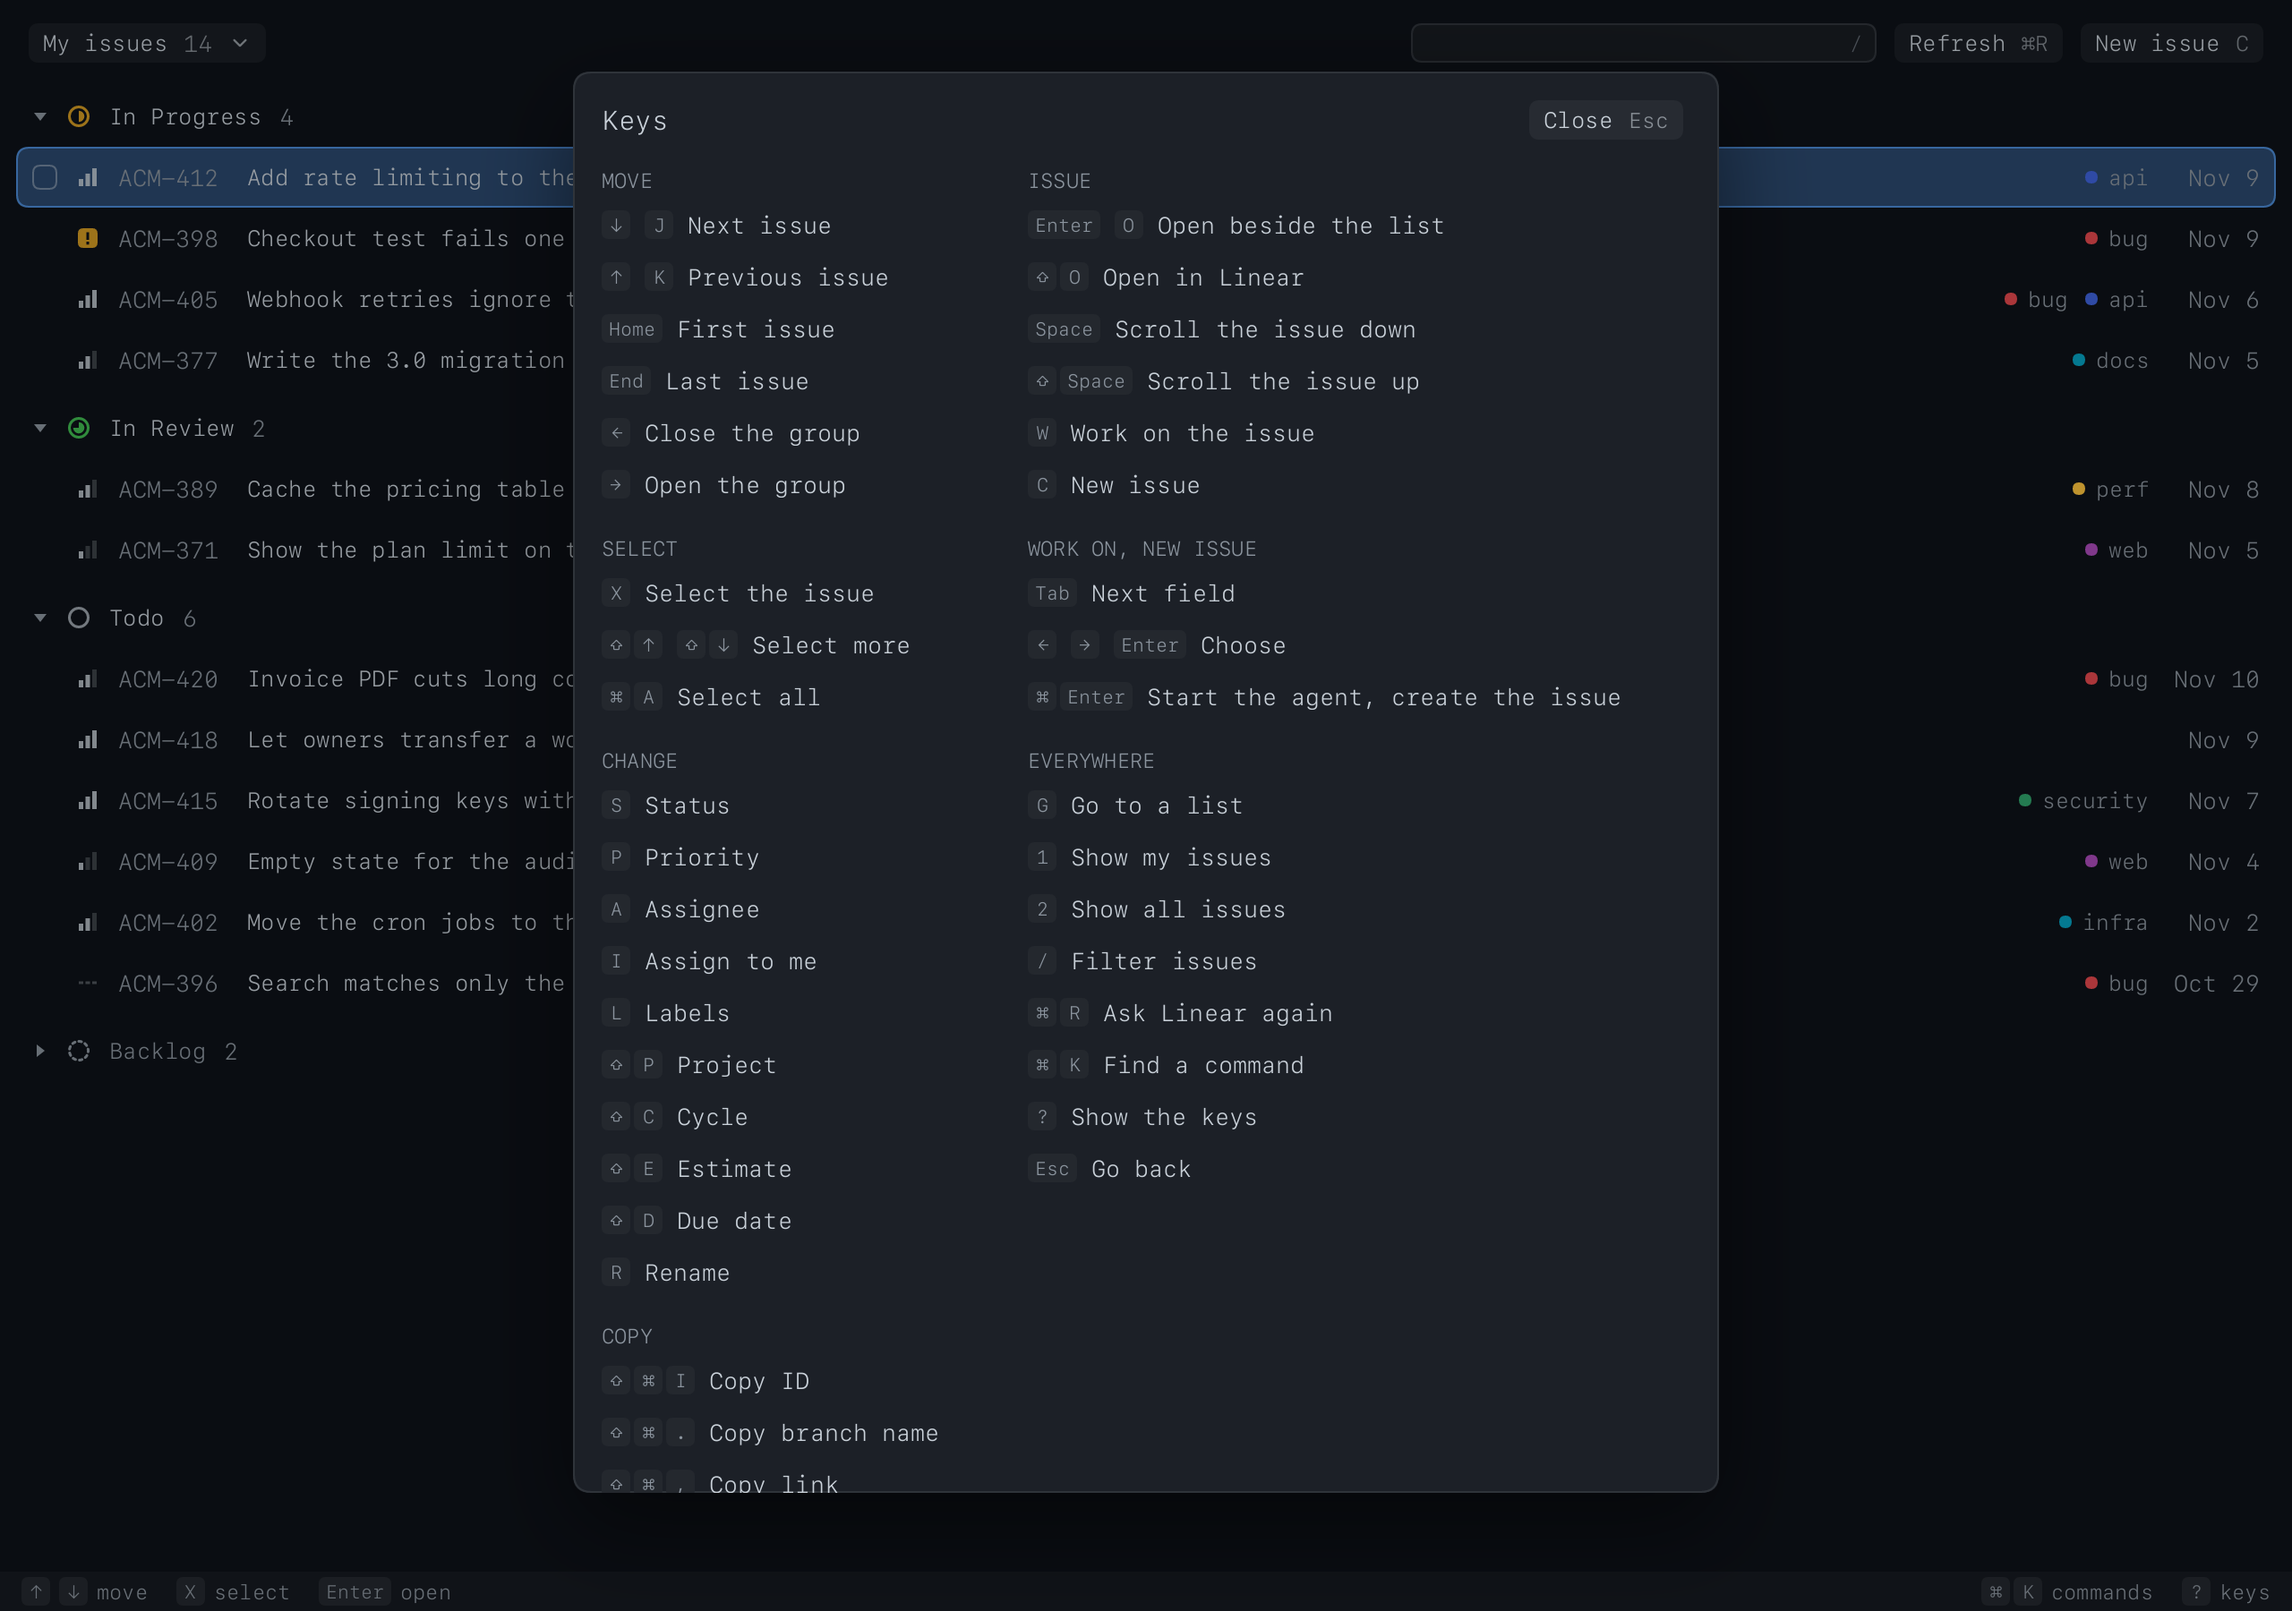
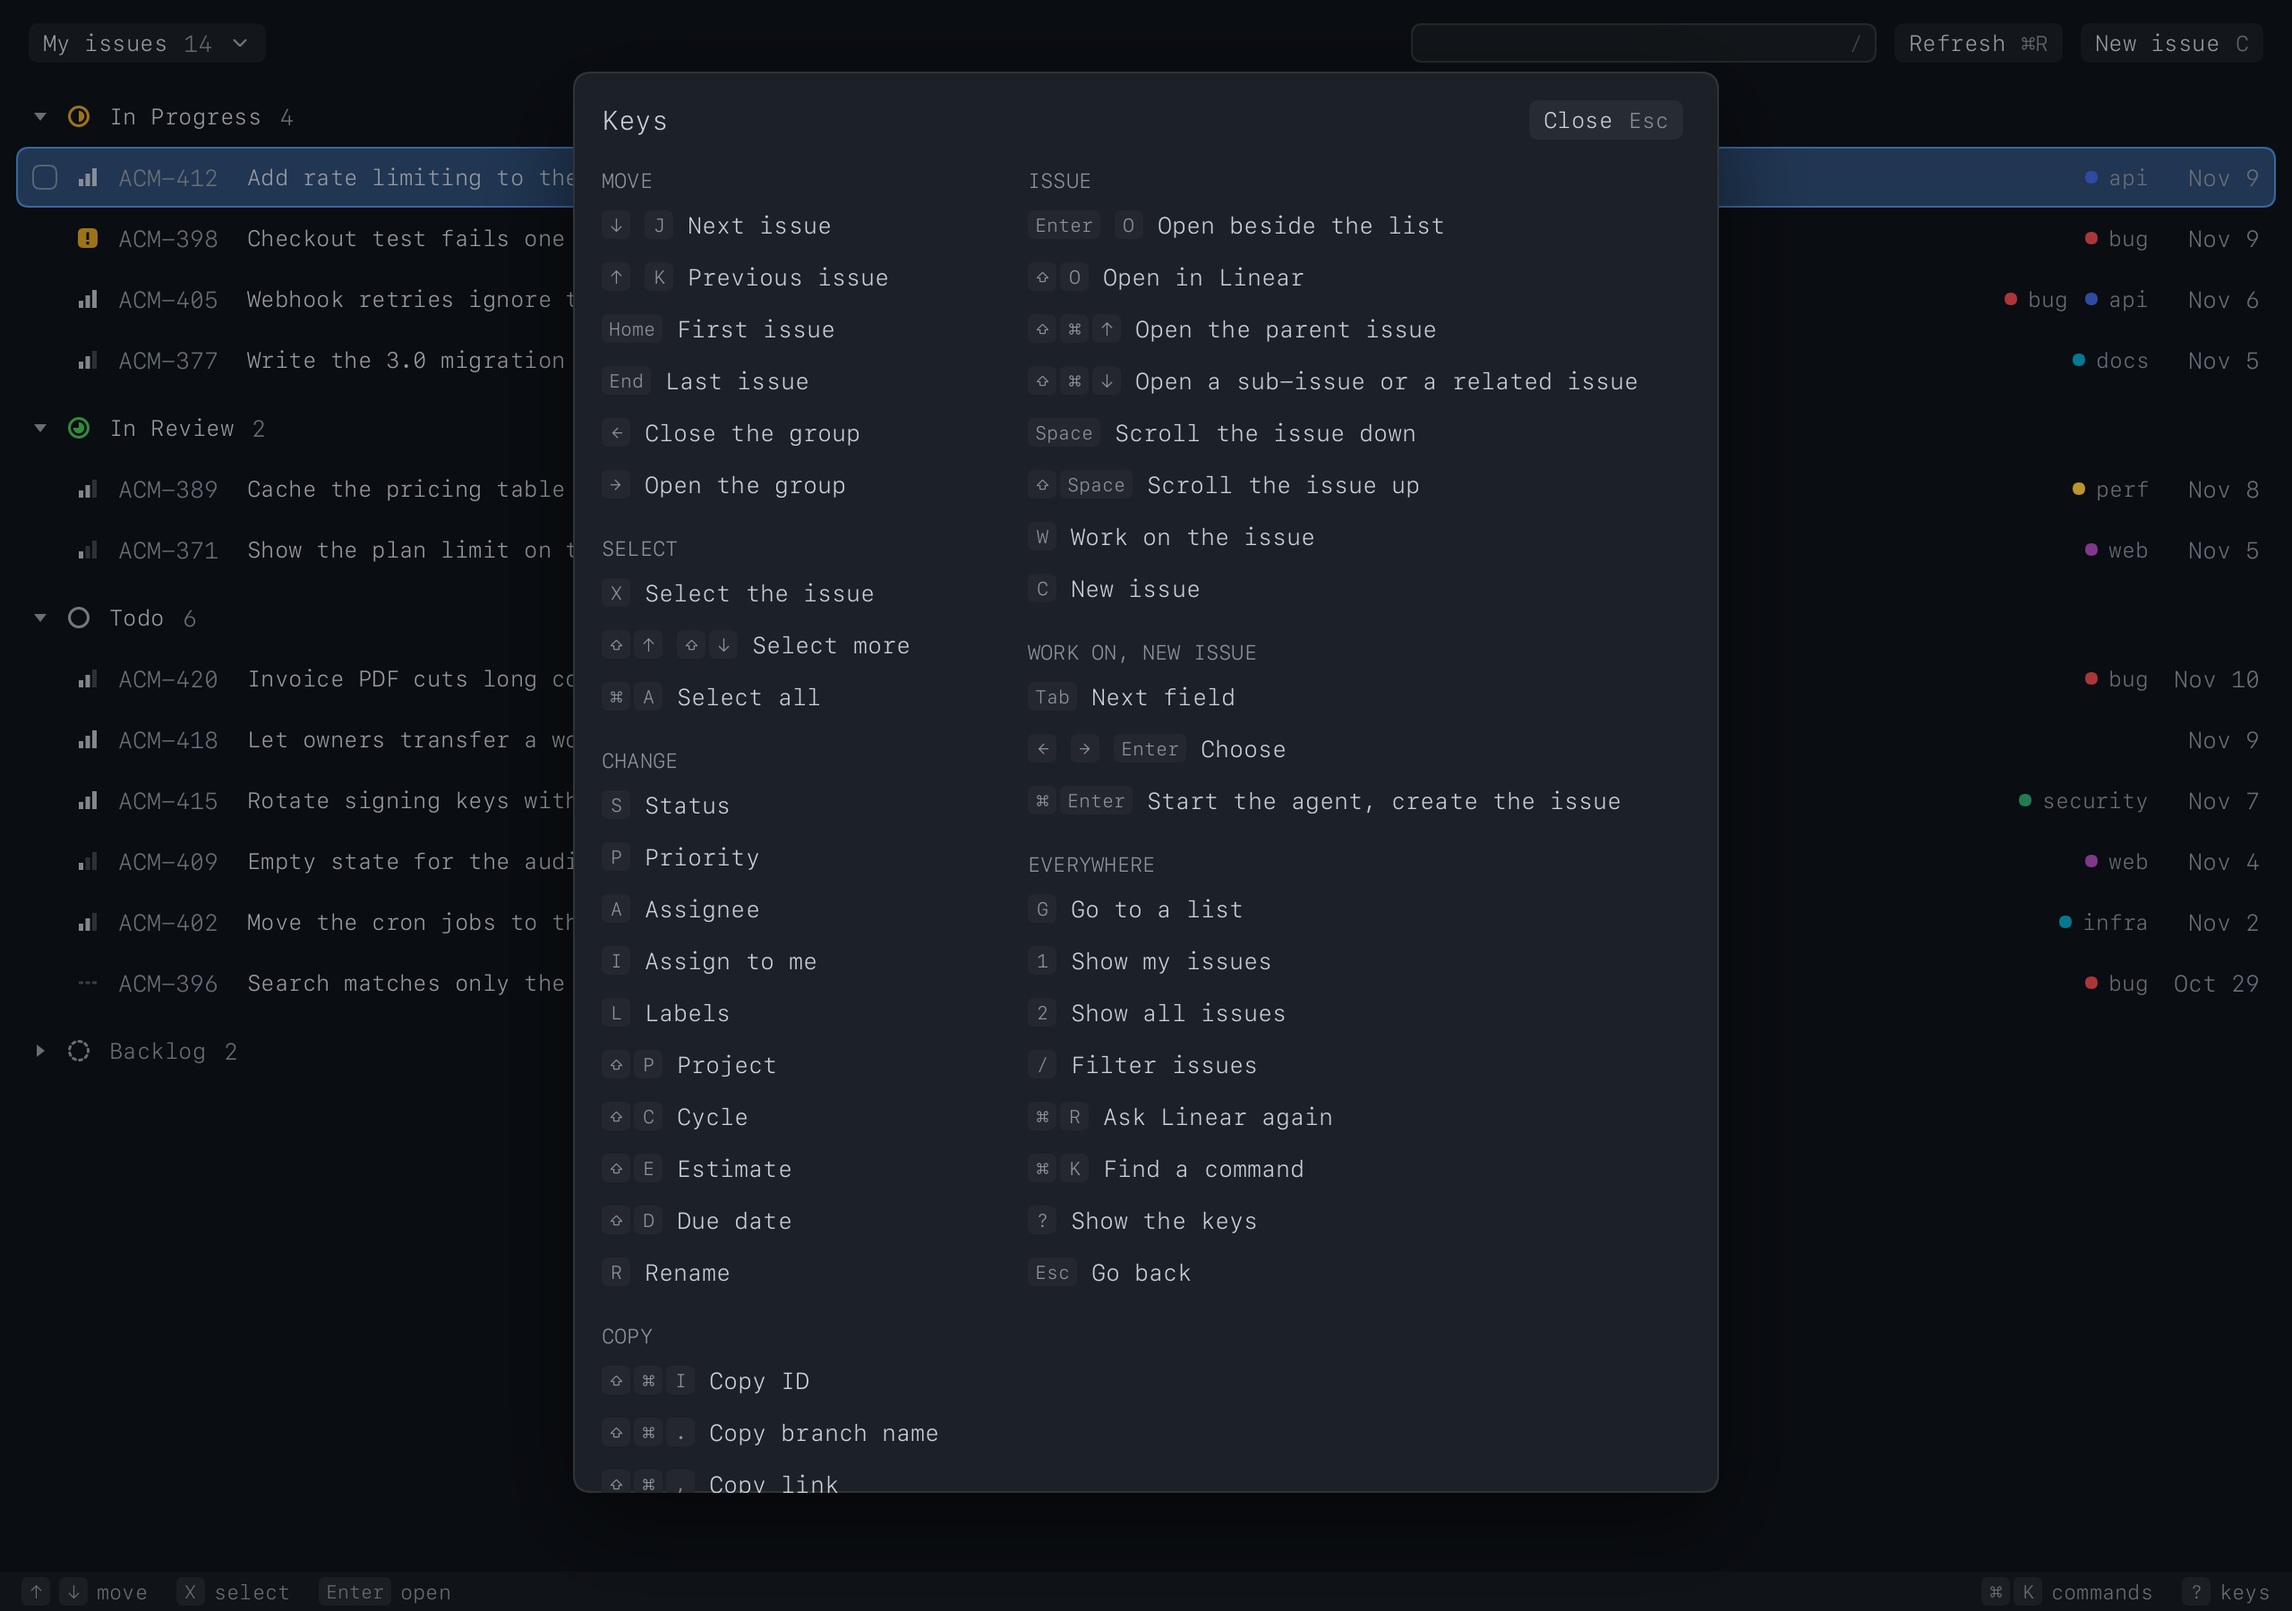
Make the parent and the other neighbours of an open issue commands with Linear's keys, so that what a press on their lines does is also a key, a palette row and a line of the card of keys

diff --git a/src/program/page_tests.rs b/src/program/page_tests.rs
@@ -4553,6 +4553,149 @@ fn the_detail_tells_sub_issues_and_each_tie_under_its_words_said_once() {
     assert!(order.windows(2).all(|pair| pair[0] < pair[1]), "{order:?}");
 }
 
+/// Opens the palette, says whether it offers `words`, and closes it again.
+fn palette_offers(page: &mut Page, words: &str) -> bool {
+    page.press("mod+k").expect("mod+k");
+    page.wait_for(WITHIN, |page| page.says("Do it"))
+        .unwrap_or_else(|why| panic!("the palette opens: {why:?}: {}", said(page)));
+    let offered = page.says(words);
+    page.press("escape").expect("escape");
+    page.wait_for(WITHIN, |page| !page.says("Do it"))
+        .expect("escape closes the palette");
+    page.advance(0.6).expect("a moment");
+    offered
+}
+
+#[test]
+#[ignore = "opens the kit's interpreter: make test-page"]
+fn the_parent_and_the_one_neighbour_are_commands_with_linears_keys_in_the_palette_and_on_the_card()
+{
+    let (linear, _session, mut page) = open_lists(WIDE);
+    open_the_controls(&mut page);
+    // The fixture's issue has a parent and one tie (what blocks it): both commands are offered.
+    for words in [
+        "Open the parent issue",
+        "Open a sub-issue or a related issue",
+    ] {
+        assert!(palette_offers(&mut page, words), "{words}: {}", said(&page));
+    }
+    page.press("?").expect("?");
+    page.wait_for(WITHIN, |page| page.says("Keys"))
+        .unwrap_or_else(|why| panic!("the card opens: {why:?}: {}", said(&page)));
+    for words in [
+        "Open the parent issue",
+        "Open a sub-issue or a related issue",
+    ] {
+        assert!(page.says(words), "{words}: {}", said(&page));
+    }
+    page.press("escape").expect("escape");
+    page.advance(0.6).expect("a moment");
+    // One tie only: the key goes to it without a menu, and the list holds it, so the cursor goes there.
+    page.press("mod+shift+down").expect("the key");
+    cursor_on(&mut page, "ACM-389");
+    assert!(page.menu().is_none(), "no menu for the one");
+    page.press("home").expect("home");
+    page.press("down").expect("down");
+    cursor_on(&mut page, "ACM-412");
+    // The parent is one the lists do not hold: it is read as it is, beside the list.
+    page.press("mod+shift+up").expect("the key");
+    page.wait_for(WITHIN, |page| {
+        page.says("Everything about the limits of a plan.")
+    })
+    .unwrap_or_else(|why| panic!("the parent opens: {why:?}: {}", said(&page)));
+    assert!(linear.issues_asked().contains(&"issue-400".to_owned()));
+    // That one has no parent and nothing tied to it: neither is offered, and the keys do nothing.
+    for words in [
+        "Open the parent issue",
+        "Open a sub-issue or a related issue",
+    ] {
+        assert!(
+            !palette_offers(&mut page, words),
+            "{words}: {}",
+            said(&page)
+        );
+    }
+    let asked = linear.issues_asked().len();
+    page.press("mod+shift+up").expect("the key");
+    page.press("mod+shift+down").expect("the key");
+    page.advance(0.4).expect("a moment");
+    assert!(page.menu().is_none());
+    assert_eq!(linear.issues_asked().len(), asked, "{}", said(&page));
+    assert!(
+        page.says("Everything about the limits of a plan."),
+        "{}",
+        said(&page)
+    );
+}
+
+#[test]
+#[ignore = "opens the kit's interpreter: make test-page"]
+fn the_key_of_the_neighbours_opens_a_menu_of_the_parts_and_the_ties_and_a_pick_opens_that_issue() {
+    let linear = Canned::new(Mode::Fine);
+    let neighbor = |n: u32, title: &str, state: &str, kind: &str| {
+        serde_json::json!({
+            "id": format!("issue-{n}"), "identifier": format!("ACM-{n}"), "title": title,
+            "state": { "id": "s", "name": state, "type": kind, "position": 1.0 }
+        })
+    };
+    linear.set_detail(
+        "issue-412",
+        serde_json::json!({
+            "children": { "nodes": [
+                neighbor(413, "Write the limiter", "Done", "completed"),
+                neighbor(414, "Show the limit on the usage page", "Todo", "unstarted"),
+            ] },
+            "relations": { "nodes": [
+                { "type": "blocks", "relatedIssue": neighbor(405, "Webhook retries", "In Progress", "started") },
+                { "type": "related", "relatedIssue": neighbor(
+                    377,
+                    "A title that runs on and on, past what a line of a menu is for, so that it is cut",
+                    "Todo",
+                    "unstarted",
+                ) },
+            ] },
+        }),
+    );
+    let session = session_over(&linear, Some("lin_api_test"), None);
+    let mut page = open(&session, WIDE, None, "ACM-412").expect("the page opens");
+    open_the_controls(&mut page);
+    page.wait_for(WITHIN, |page| page.says("Write the limiter"))
+        .unwrap_or_else(|why| panic!("{why:?}: {}", said(&page)));
+    let entries = menu_after(&mut page, "mod+shift+down");
+    // The parts, then the ties as the detail tells them; the parent is not here (it has its own key);
+    // each says its way, and a long title is cut.
+    assert_eq!(
+        titles(&entries),
+        vec![
+            "ACM-413  Write the limiter  \u{b7} Sub-issue",
+            "ACM-414  Show the limit on the usage page  \u{b7} Sub-issue",
+            "ACM-405  Webhook retries  \u{b7} Blocks",
+            "ACM-389  Cache the pricing table at the edge  \u{b7} Blocked by",
+            "ACM-377  A title that runs on and on, past what a line\u{2026}  \u{b7} Related",
+        ]
+    );
+    assert!(entries.iter().all(|(_, enabled)| *enabled), "{entries:?}");
+    // A pick of one the lists do not hold reads it beside the list.
+    page.pick_titled("ACM-413  Write the limiter  \u{b7} Sub-issue")
+        .expect("the part");
+    page.wait_for(WITHIN, |_| {
+        linear.issues_asked().contains(&"issue-413".to_owned())
+    })
+    .unwrap_or_else(|why| panic!("the part is asked for: {why:?}: {}", said(&page)));
+    assert!(page.menu().is_none());
+    // A pick of one the lists hold takes the cursor to it.
+    page.press("home").expect("home");
+    page.press("down").expect("down");
+    cursor_on(&mut page, "ACM-412");
+    page.wait_for(WITHIN, |page| page.says("Write the limiter"))
+        .unwrap_or_else(|why| panic!("the issue is back: {why:?}: {}", said(&page)));
+    let entries = menu_after(&mut page, "mod+shift+down");
+    assert_eq!(entries.len(), 5, "{entries:?}");
+    page.pick_titled("ACM-405  Webhook retries  \u{b7} Blocks")
+        .expect("what it blocks");
+    cursor_on(&mut page, "ACM-405");
+}
+
 // --- The right button and the copies ---------------------------------------------------------------------
 
 /// The titles of the entries of the host's menu that is open.

diff --git a/CHANGELOG.md b/CHANGELOG.md
@@ -16,7 +16,10 @@
 - **The issues round an issue.** Under its values the issue open lists its parent, its sub-issues and
   what it is tied to (`Blocks`, `Blocked by`, `Related`, `Duplicate of`, `Duplicated by`), each a line
   that opens that issue (beside the list, as it is, where the list does not hold it); the file Work
-  on writes for the agent tells them too, under the same frame. They are read only.
+  on writes for the agent tells them too, under the same frame. They are read only. `Cmd Shift Up`
+  opens the parent and `Cmd Shift Down` opens a sub-issue or a related issue (a menu, each line with
+  its way, or straight to the one there is), as in Linear; both are in the palette and on the card
+  of keys.
 - **The head of the page has fixed places.** The list button (the list, how many it has and a
   chevron) opens a card of lists, which for now holds My issues and All issues (`g`, or `1` and
   `2`); the filter says how many it lets through (`4 of 14`) inside itself, and Refresh and New

diff --git a/README.md b/README.md
@@ -187,6 +187,7 @@ or `Space` then presses.
 | `←` `→`               | close and open a group                                               |
 | `Enter`, `o`          | open the issue beside the list                                       |
 | `⇧O`                  | open it in Linear                                                    |
+| `⌘⇧↑` `⌘⇧↓`            | open its parent, open a sub-issue or a related issue (a menu)        |
 | `Space`, `⇧ Space`    | scroll the open issue down, up                                       |
 | `x`, `Shift ↑↓`, `⌘A` | select the issue, select more, select all                            |
 | `s` `p` `a` `l` `⇧P`  | change the status, priority, assignee, labels, project               |
